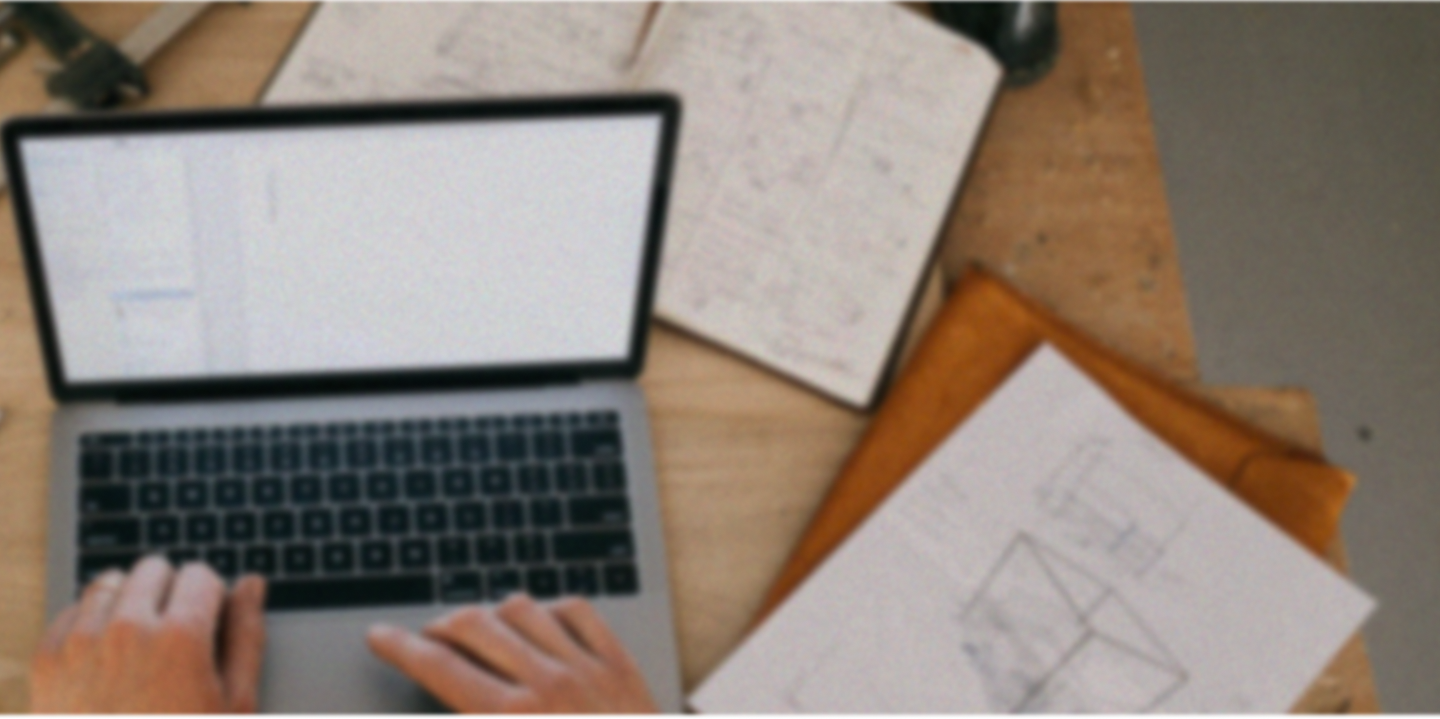
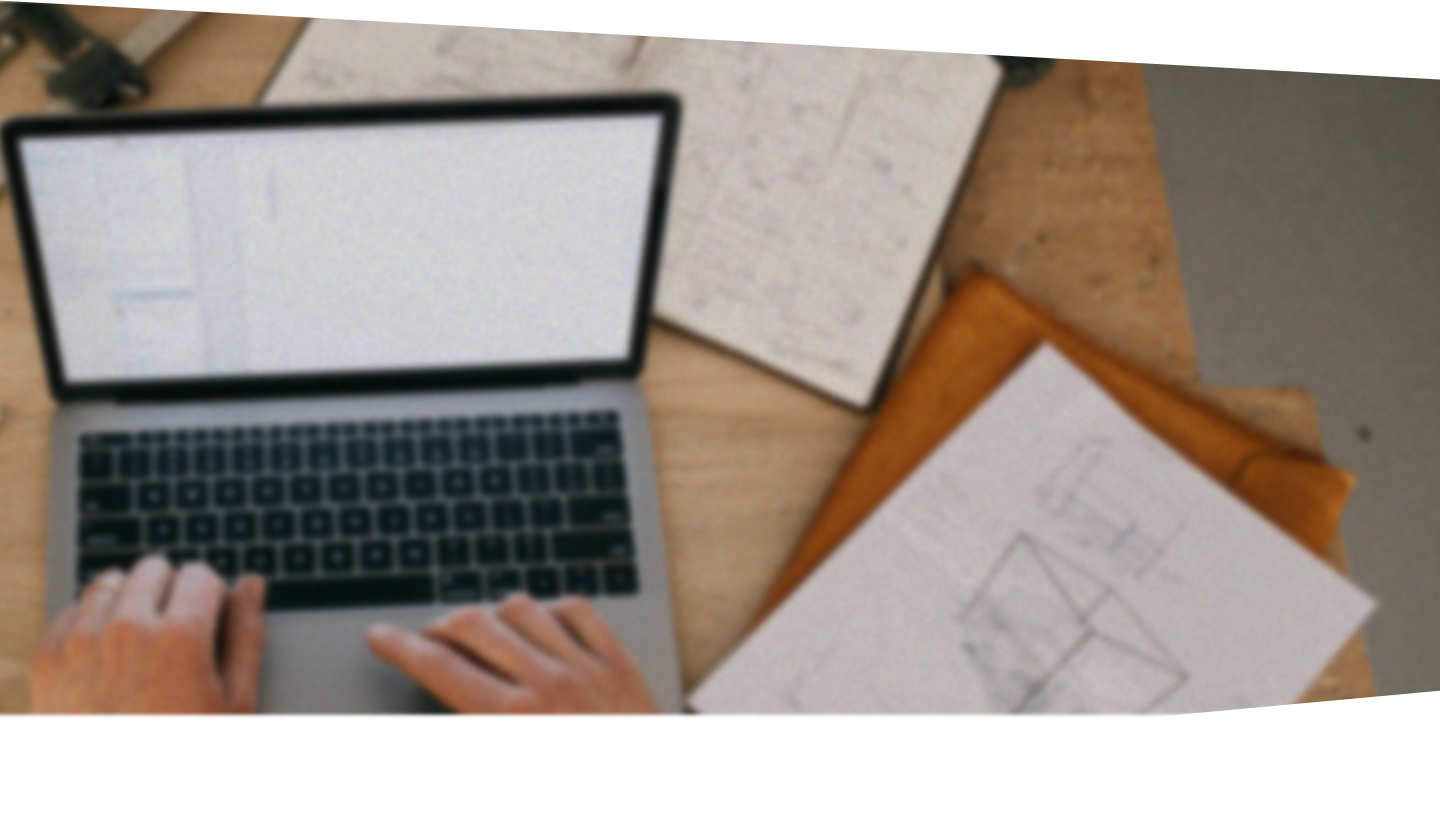
🍱 Img fix

diff --git a/frontend/src/widgets/WPrice/ui/WPrice.vue b/frontend/src/widgets/WPrice/ui/WPrice.vue
@@ -6,7 +6,7 @@ import PriceSpreadsheet from './PriceSpreadsheet.vue';
 
 <template>
   <div class="w-price" bg-black overflow-hidden relative>
-    <SStructure py-30 pb-2rem w-min relative>
+    <SStructure py-30 pb-2rem w="min!" relative>
       <PriceSpreadsheet relative z-1></PriceSpreadsheet>
       <div relative z-1 text-primary font-600 text-base mx-4 mt-7>
         <p>{{ $t('price.description') }}</p>
@@ -15,9 +15,9 @@ import PriceSpreadsheet from './PriceSpreadsheet.vue';
       <img
         src="/widgets/WPrice/background.png"
         absolute
-        w-full
+        w="15/10"
         top-0
-        left-0
+        left="-25/100"
         z-0
         select-none
         pointer-events-none

diff --git a/frontend/src/widgets/WOrder/ui/WOrder.vue b/frontend/src/widgets/WOrder/ui/WOrder.vue
@@ -14,7 +14,9 @@ import OrderForm from './OrderForm.vue';
       left-0
       top-0
       z-0
-      w-full
+      w-auto
+      h-full
+      class="xl:(w-full h-auto)"
       select-none
       pointer-events-none
     />
